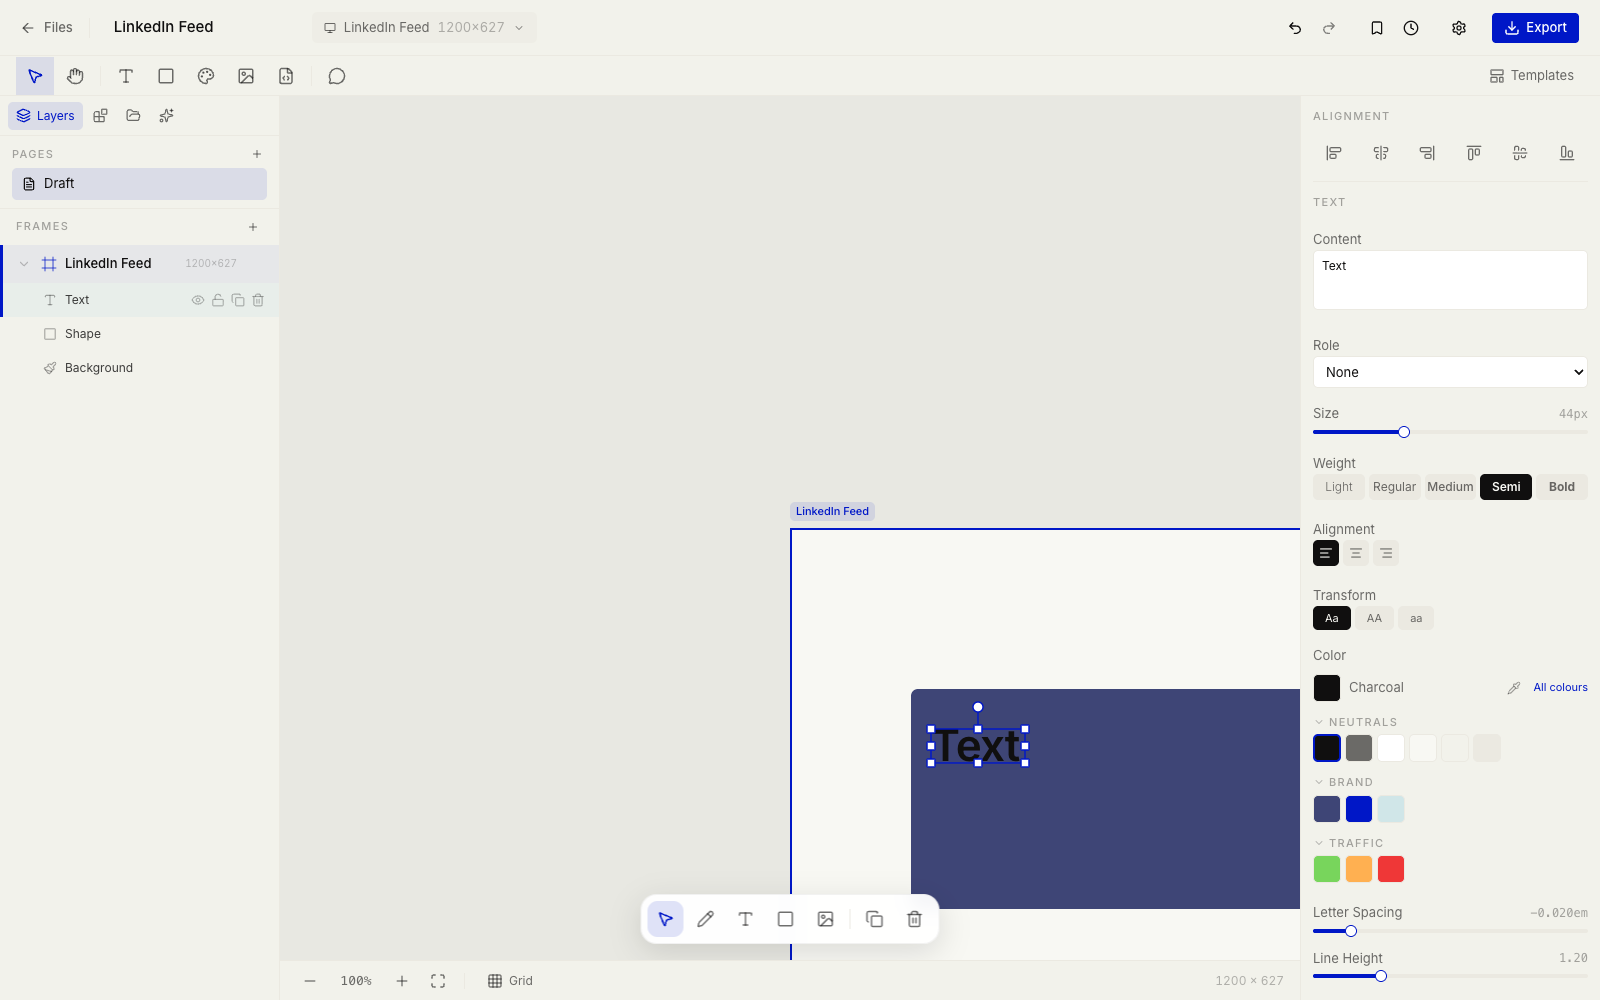
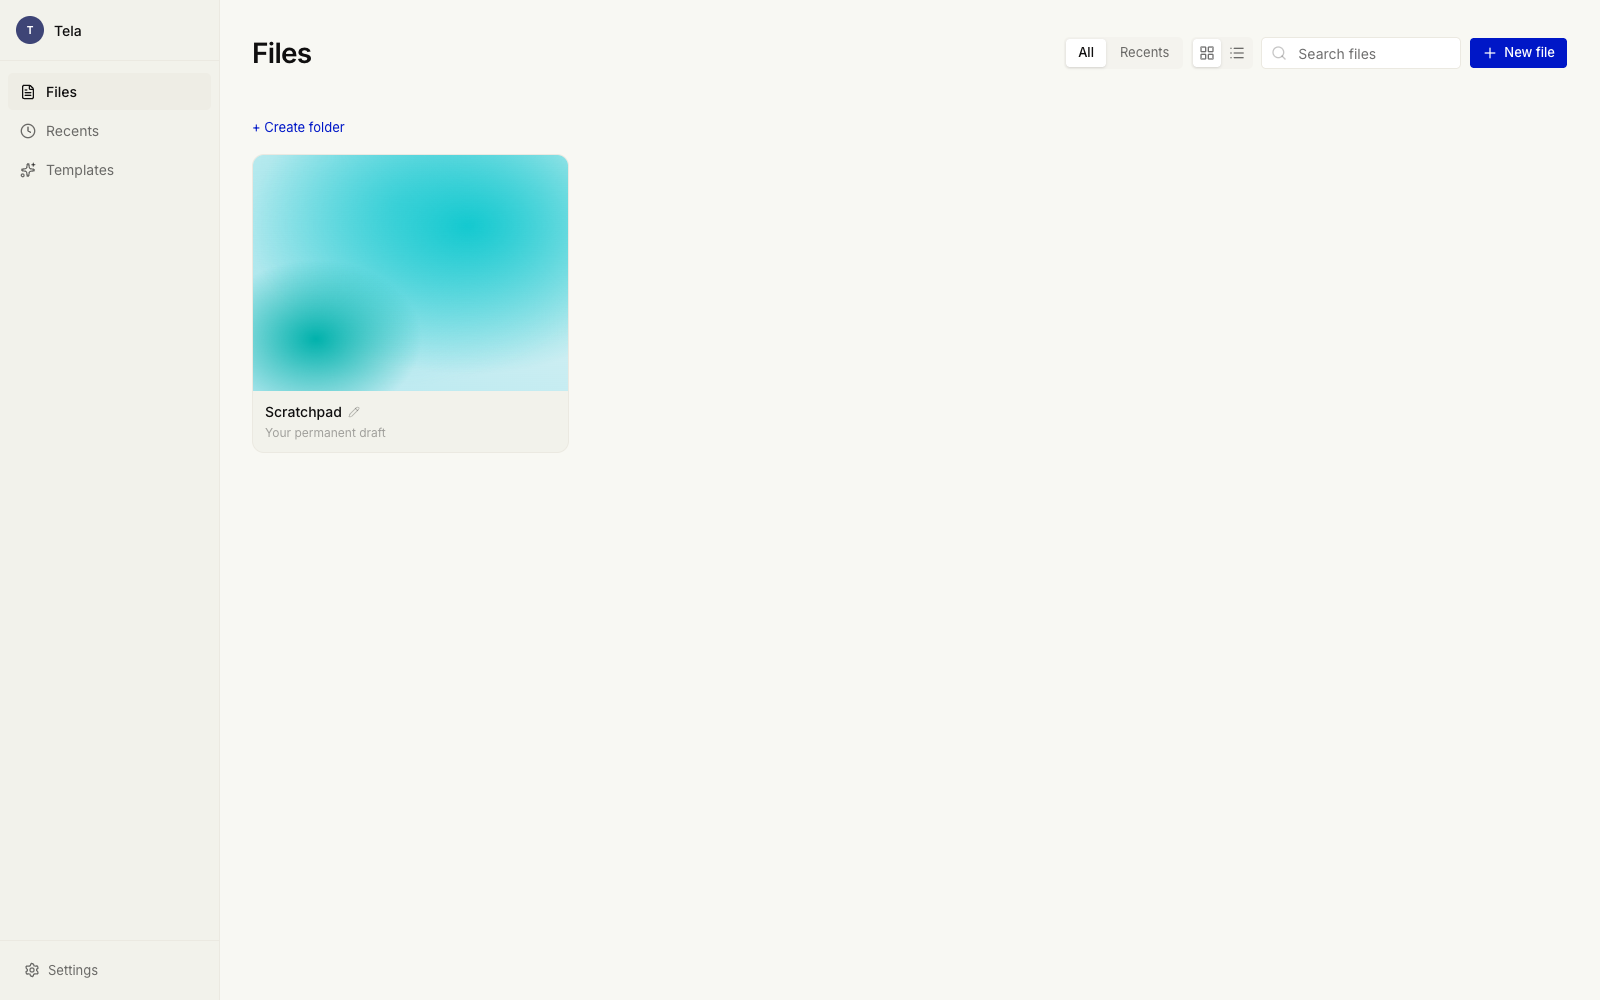
Rebrand to Tela
Tela (Portuguese for "canvas"/"screen") is the project name. Renames the
product across the UI, docs, package name, the window.tela scripting global,
localStorage key prefix (tela-*), and the default AI endpoint path (/api/tela-ai).

Verified: typecheck, lint, and build all green; app boots clean with the new name.

diff --git a/src/agent/rpc.ts b/src/agent/rpc.ts
@@ -3,7 +3,7 @@ import { dispatch, getSchema } from './commands'
 /**
  * Agent RPC bridge. Lets a parent window (a host app, or an agent harness driving the
  * iframe) run canvas commands over postMessage, and also exposes a direct
- * `window.canvasStudio` handle for same-window scripting / devtools.
+ * `window.tela` handle for same-window scripting / devtools.
  *
  * Wire protocol (both directions tagged with source SOURCE):
  *   in : { source, type:'command', id, command:{ op, ...args } }
@@ -15,7 +15,7 @@ import { dispatch, getSchema } from './commands'
  * so the blast radius is confined to the current design document.
  */
 
-const SOURCE = 'canvas-studio-agent'
+const SOURCE = 'tela-agent'
 
 interface CommandMessage {
   source: string
@@ -32,8 +32,8 @@ export function installAgentRpc(): () => void {
   if (typeof window === 'undefined') return () => {}
 
   // Direct handle: an agent scripting the page (or you, in devtools) can call
-  // window.canvasStudio.dispatch({ op:'getSchema' }) without postMessage plumbing.
-  ;(window as unknown as { canvasStudio: unknown }).canvasStudio = { dispatch, getSchema }
+  // window.tela.dispatch({ op:'getSchema' }) without postMessage plumbing.
+  ;(window as unknown as { tela: unknown }).tela = { dispatch, getSchema }
 
   const onMessage = async (e: MessageEvent) => {
     if (!isCommandMessage(e.data)) return

diff --git a/src/lib/aiApi.ts b/src/lib/aiApi.ts
@@ -1,19 +1,19 @@
 /**
  * Endpoint + fetch helper for the optional AI Assist feature.
  *
- * Canvas Studio ships with NO backend. The AI panel is a thin client that POSTs
+ * Tela ships with NO backend. The AI panel is a thin client that POSTs
  * to an endpoint you provide, so you can proxy to Anthropic, OpenAI, or any
  * provider from your own server and keep API keys out of the browser. Configure:
  *
  *   VITE_AI_API_ORIGIN   base origin, e.g. https://your-api.example.com
- *   VITE_AI_API_PATH     request path (default: /api/canvas-ai)
+ *   VITE_AI_API_PATH     request path (default: /api/tela-ai)
  *
  * When `VITE_AI_API_ORIGIN` is unset the AI features stay dormant (`AI_ENABLED`
  * is false) and the app is fully usable without them. The request/response
  * contract is documented in `docs/ai-endpoint.md`.
  */
 const AI_ORIGIN = (import.meta.env.VITE_AI_API_ORIGIN as string | undefined) ?? "";
-const AI_PATH = (import.meta.env.VITE_AI_API_PATH as string | undefined) ?? "/api/canvas-ai";
+const AI_PATH = (import.meta.env.VITE_AI_API_PATH as string | undefined) ?? "/api/tela-ai";
 
 /** True when an AI endpoint has been configured. Gate AI UI on this. */
 export const AI_ENABLED = AI_ORIGIN !== "";

diff --git a/index.html b/index.html
@@ -6,7 +6,7 @@
     <link rel="icon" href="/icon-light.svg" media="(prefers-color-scheme: light)" />
     <link rel="icon" href="/icon-dark.svg" media="(prefers-color-scheme: dark)" />
     <meta name="viewport" content="width=device-width, initial-scale=1.0" />
-    <title>Canvas Studio — Design Studio for Social & Ad Creatives</title>
+    <title>Tela — a design canvas for social & ad creatives</title>
     <meta name="description" content="Create on-brand creatives for LinkedIn, Instagram, and Facebook. Design once, export to every format. Local-first, no backend required." />
   </head>
   <body>

diff --git a/src/App.tsx b/src/App.tsx
@@ -77,7 +77,7 @@ export default function App() {
   // Sync navigation with a parent /studio host when embedded (no-op standalone).
   useStudioBridge()
 
-  // Expose the command bus to a parent window / agent harness (and window.canvasStudio).
+  // Expose the command bus to a parent window / agent harness (and window.tela).
   useEffect(() => installAgentRpc(), [])
 
   return (

diff --git a/src/brand/brand.config.ts b/src/brand/brand.config.ts
@@ -7,7 +7,7 @@
  */
 export const BRAND = {
   /** Product name shown in the header, document titles, and exports. */
-  productName: 'Canvas Studio',
+  productName: 'Tela',
 
   /** Social handle used in the live post preview (no leading @). */
   socialHandle: 'yourbrand',

diff --git a/src/components/library/SettingsPage.tsx b/src/components/library/SettingsPage.tsx
@@ -117,7 +117,7 @@ function GeneralSettings() {
               // same-origin iframe inside a host app, so localStorage.clear() would
               // wipe the host app's data too.
               Object.keys(localStorage)
-                .filter((k) => k.startsWith('canvas-studio-'))
+                .filter((k) => k.startsWith('tela-'))
                 .forEach((k) => localStorage.removeItem(k))
               window.location.reload()
             }

diff --git a/src/components/panels/SettingsModal.tsx b/src/components/panels/SettingsModal.tsx
@@ -167,7 +167,7 @@ function GeneralSettings() {
               // same-origin iframe inside a host app, so localStorage.clear() would
               // wipe the host app's data too.
               Object.keys(localStorage)
-                .filter((k) => k.startsWith('canvas-studio-'))
+                .filter((k) => k.startsWith('tela-'))
                 .forEach((k) => localStorage.removeItem(k))
               window.location.reload()
             }

diff --git a/src/store/useAIStore.ts b/src/store/useAIStore.ts
@@ -49,7 +49,7 @@ export const useAIStore = create<AIStore>()(
       setLastError: (err) => set({ lastError: err }),
     }),
     {
-      name: 'canvas-studio-ai',
+      name: 'tela-ai',
       partialize: (state) => ({
         model: state.model,
         productName: state.productName,

diff --git a/src/store/useAssetStore.ts b/src/store/useAssetStore.ts
@@ -129,7 +129,7 @@ export const useAssetStore = create<AssetStore>()(
       },
     }),
     {
-      name: 'canvas-studio-assets',
+      name: 'tela-assets',
     },
   ),
 )

diff --git a/src/store/useDesignStore.ts b/src/store/useDesignStore.ts
@@ -1040,7 +1040,7 @@ export const useDesignStore = create<DesignStore>()(
   },
     }),
     {
-      name: 'canvas-studio-design',
+      name: 'tela-design',
       version: 3,
       partialize: (state) => ({
         document: state.document,

diff --git a/src/store/useFileStore.ts b/src/store/useFileStore.ts
@@ -229,6 +229,6 @@ export const useFileStore = create<FileStore>()(
       getSubFolders: (parentId) => get().folders.filter((f) => f.parentId === parentId),
       getScratchpad: () => get().files.find((f) => f.isScratchpad) ?? createScratchpadFile(),
     }),
-    { name: 'canvas-studio-files' },
+    { name: 'tela-files' },
   ),
 )

diff --git a/src/store/useProjectStore.ts b/src/store/useProjectStore.ts
@@ -320,7 +320,7 @@ export const useProjectStore = create<ProjectStore>()(
       },
     }),
     {
-      name: 'canvas-studio-projects',
+      name: 'tela-projects',
     },
   ),
 )